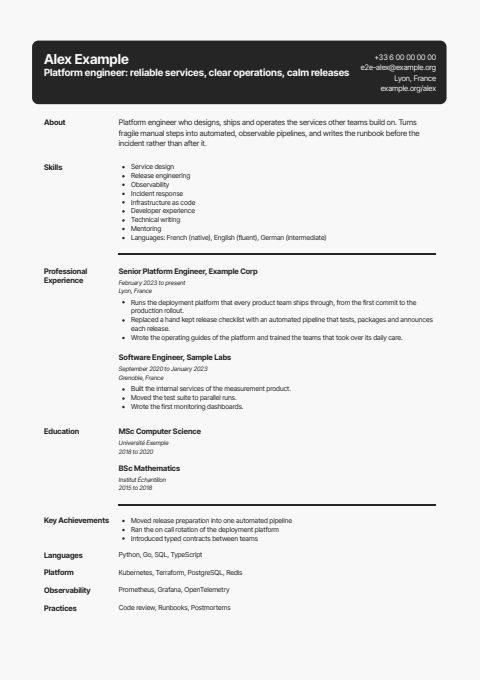
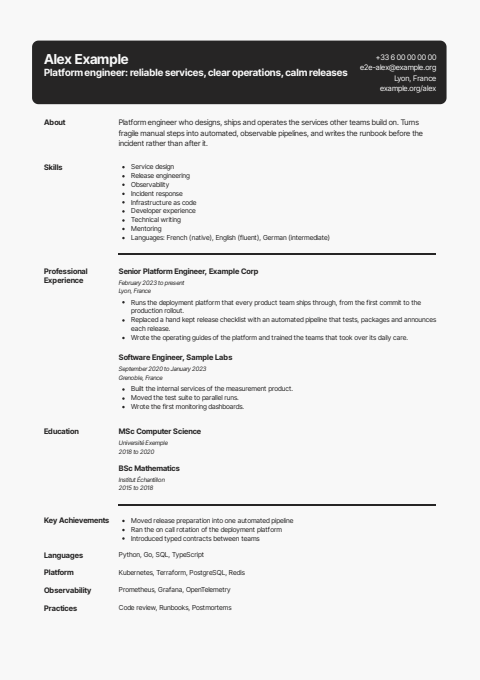
D27: thumbnails made again through the renderer service (server.py in a container, headless shell 153), same steps; the docker tests read a name or headline set in capitals by CSS case folded; the render check probes back on classic's baseline fixture
Claude-Session: https://claude.ai/code/session_017CqfhHnPbtyZ6jyK1KZS4T

diff --git a/api/tests/documents/test_design_check_docker.py b/api/tests/documents/test_design_check_docker.py
@@ -13,6 +13,7 @@ import asyncio
 import dataclasses
 import json
 import re
+from pathlib import Path
 
 import pypdfium2 as pdfium
 import pytest
@@ -51,15 +52,19 @@ def checker(stack: Stack) -> design_check.Check:
     return check
 
 
+BASELINE = Path(__file__).resolve().parent / "fixtures" / "upload_baseline"
+
+
 def probe(css: str = "", replace: tuple[tuple[str, str], ...] = ()) -> templates.Template:
-    """band, with `css` appended and each `replace` applied to its style sheet."""
-    band = templates.registry()["band"]
-    style = band.files["style.css"]
+    """classic (the upload rules' baseline, kept as a fixture when the twenty went in D27), with
+    `css` appended and each `replace` applied to its style sheet."""
+    files = {name: (BASELINE / name).read_text(encoding="utf-8") for name in templates.FILES}
+    style = files["style.css"]
     for old, new in replace:
         style = re.sub(old, new, style)
-    manifest = json.loads((band.folder / "manifest.json").read_text(encoding="utf-8"))
+    manifest = json.loads((BASELINE / "manifest.json").read_text(encoding="utf-8"))
     manifest["slug"] = "probe"
-    return templates.from_files(manifest, {**band.files, "style.css": style + css})
+    return templates.from_files(manifest, {**files, "style.css": style + css})
 
 
 @pytest.mark.parametrize("slug", sorted(templates.registry()))

diff --git a/api/tests/documents/test_templates.py b/api/tests/documents/test_templates.py
@@ -1415,7 +1415,7 @@ def test_the_fit_rule_on_d1_fixtures(renderer: Any, slug: str, language: str) ->
         steps[name] = result.step
         main = templates.fonts()[found.fonts[0]].name.replace(" ", "")
         assert any(font.startswith(main) for font in pdf_fonts(result.pdf)), name
-        assert "Alex Example" in pdf_text(result.pdf)
+        assert "alex example" in pdf_text(result.pdf).casefold()  # capitals by CSS read alike
     assert steps["cv-short"] == 0, steps
     assert steps["cv-typical"] < last, steps
     assert steps["cv-short"] <= steps["cv-typical"] <= steps["cv-long"] <= steps["cv-tightest"]
@@ -1505,7 +1505,7 @@ def test_an_emoji_as_phones_type_it_renders(renderer: Any, slug: str, sample_: s
     text = "".join(pdf_text(rendered.pdf).split())
     printed = templates.printable_text(template(slug).fonts, sample_)
     assert printed[:1] == sample_[0]
-    assert "Engineer" in text
+    assert "engineer" in text.casefold()  # a headline in capitals by CSS reads alike
     if len(printed) == 1:  # a ligature of a sequence (`👍🏽`) maps to no text in the PDF
         assert "AlexExample" not in text  # the name kept its character
         assert printed in text, sample_

diff --git a/api/tests/documents/test_template_reading_order.py b/api/tests/documents/test_template_reading_order.py
@@ -33,7 +33,7 @@ def test_a_cv_starts_with_the_name(renderer: Any, slug: str, language: str, name
     kind, _, content = d1(name)
     result = fitted(renderer, template(slug), kind, content, d1_view(), language)
     assert result.fit
-    assert first_page_text(result.pdf).lstrip().startswith("Alex Example"), slug
+    assert first_page_text(result.pdf).lstrip().casefold().startswith("alex example"), slug
 
 
 @docker
@@ -43,4 +43,4 @@ def test_a_letter_starts_with_the_name(renderer: Any, slug: str) -> None:
     result = fitted(renderer, template(slug), kind, content, d1_view(), language)
     assert result.fit
     text = first_page_text(result.pdf).lstrip()
-    assert text.startswith("Alex Example"), (slug, text[:80])
+    assert text.casefold().startswith("alex example"), (slug, text[:80])

diff --git a/api/tests/documents/test_templates_d20.py b/api/tests/documents/test_templates_d20.py
@@ -385,7 +385,7 @@ def test_an_ats_friendly_template_reads_in_the_order_of_the_page(
     assert_whole_on_one_line(result.pdf, d1_view())
     # pdfium reads a hyphen that ends a line as U+FFFE, in every template.
     text = " ".join(pdf_text(result.pdf).replace("\ufffe", "-").split())
-    assert text.startswith("Alex Example"), text[:60]
+    assert text.casefold().startswith("alex example"), text[:60]
     labels = templates.labels()[language]
     keys = ("summary", "highlights", "competencies", "experience", "education", "skills")
     folded = text.casefold()  # a heading in small caps may be extracted in capitals

diff --git a/api/tests/documents/test_templates_d22.py b/api/tests/documents/test_templates_d22.py
@@ -334,7 +334,7 @@ def test_a_long_name_stays_on_the_page_and_whole(
         ys = baselines(result.pdf, word)
         assert max(ys) - min(ys) < 1.0, word
     assert top(glyphs.find(content.headline[:20])) < bottom(boxes)
-    assert "".join(name.split()) in "".join(pdf_text(result.pdf).split())
+    assert "".join(name.split()).casefold() in "".join(pdf_text(result.pdf).split()).casefold()
 
 
 def images(pdf: bytes) -> list[tuple[float, float, float, float]]:
